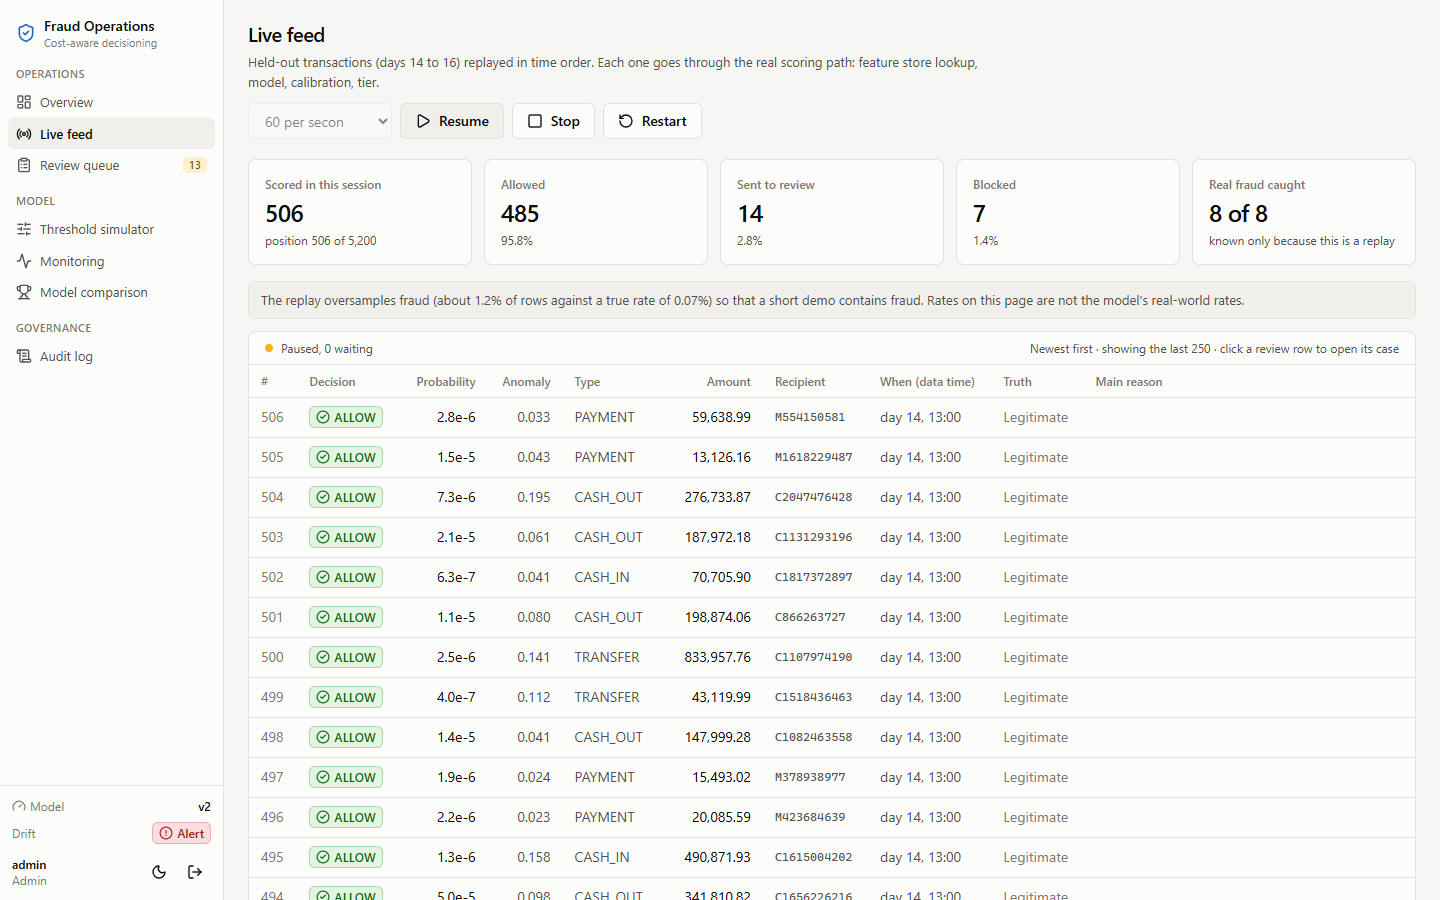
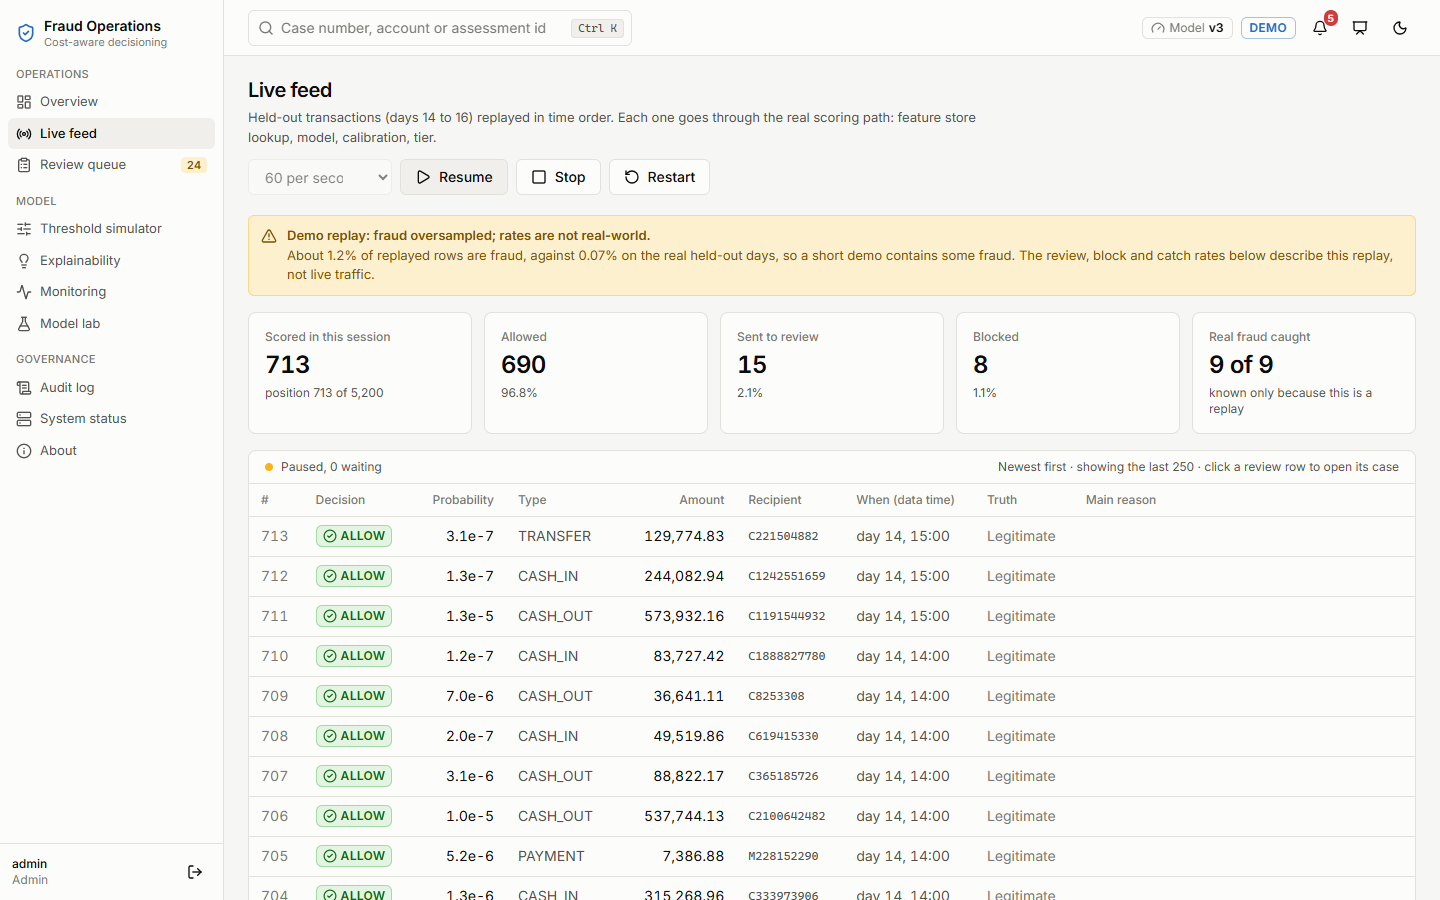
Update demo script, screenshots and overview hint

diff --git a/dashboard/src/pages/Overview.tsx b/dashboard/src/pages/Overview.tsx
@@ -38,7 +38,7 @@ function CostAvoided() {
     <Kpi label={label} value={<span className="text-lg">{best ? fmt.int(best.days_14_16.total_cost - v3) : '–'}</span>}
       hint={<>
         <span className="block">vs review everything: <span className="tabular font-medium text-text">{fmt.int(everything - v3)}</span></span>
-        <span className="block">Days {held.days[0]}–{held.days[held.days.length - 1]}, V3 cost {fmt.int(v3)}{best && <>; best rule ({best.label.toLowerCase()}) {fmt.int(best.days_14_16.total_cost)}</>}.{' '}
+        <span className="block">Days {held.days[0]}–{held.days[held.days.length - 1]}: V3 {fmt.int(v3)}{best && <>, best rule {fmt.int(best.days_14_16.total_cost)}</>}.{' '}
           <Link to="/models" className="text-accent hover:underline">Model lab</Link></span>
         <span className="mt-1 block text-[11px] text-muted">vs blocking nothing: {fmt.money(held.baselines.block_nothing - v3)}</span>
       </>} />

diff --git a/docs/DEMO_SCRIPT.md b/docs/DEMO_SCRIPT.md
@@ -1,6 +1,6 @@
-# Five-minute demo
+# Six-minute demo
 
-A walkthrough for the presentation. Timings are targets; the whole thing fits in five minutes with a little room.
+A walkthrough for the presentation. Timings are targets; the whole thing fits in six minutes with a little room. If you only have five, leave out the retraining step at 5:00.
 
 ## Before you present
 
@@ -11,8 +11,12 @@ Do this at least ten minutes before your slot, on the machine you will present f
 3. Terminal 2: `cd dashboard` then `npm run dev`
 4. Open http://localhost:5173 and sign in as **admin** / `admin123`.
 5. Go to **Live feed**, set the speed to **20 per second**, press **Restart**, let it run for about 30 seconds, then **Stop**. This fills the review queue and the audit log so no page is empty.
-6. Open the **Threshold simulator** once so its data is cached.
-7. Leave the browser on the **Overview** page, in light mode, zoomed so the back row can read it.
+6. Open the **Threshold simulator**, the **Explainability** page and the **Model lab** once each so their data is cached.
+7. Open a third terminal in the project root, run `python scripts/retrain.py --as-of-day 16 --maturity-days 2` once (about four and a half minutes on the laptop, plugged in), and leave the terminal open. The Model lab then already has a gate decision to show if the live run is slow.
+8. Turn on **presentation mode** (the screen icon in the top bar). It makes everything larger for the back row.
+9. Leave the browser on the **Overview** page, in light mode.
+
+If you present from the online version instead, open it a few minutes early: the free API goes to sleep and takes about a minute to wake up.
 
 To start completely fresh, stop the API, delete `api/fraud.db`, and start it again.
 
@@ -20,102 +24,129 @@ To start completely fresh, stop the API, delete `api/fraud.db`, and start it aga
 
 ### 0:00 Opening (30 seconds), Overview page
 
-> "Most fraud projects stop at a model score. This one asks what a fraud team would ask: can I trust the number, what should the system do with a score, and what happens when things change. This is the operations view: what has been scored, what is waiting for a person, which model is serving, and whether its inputs have drifted."
+> "Most fraud projects stop at a model score. This one asks what a fraud team would ask: can I trust the number, what should the system do with a score, and what happens when things change. This is the operations view: what has been scored, what is waiting for a person, and whether the model's inputs have drifted."
 
-Point at the six tiles. Do not explain each one.
+Point at the **cost avoided vs best rule** tile.
 
-### 0:30 Live feed (45 seconds)
+> "The fair comparison is not 'no fraud check at all'. It is the best set of simple rules I could write from the earlier days. On the held-out days those rules cost 196,675; the model's decisions cost 32,586. Sending everything to a person would have cost over 1.2 million."
+
+### 0:30 Live feed (40 seconds)
 
 Click **Live feed**, speed **5 per second**, press **Continue**.
 
-> "These are real held-out transactions, days the model never saw, replayed in order. Each one goes through the same path a payment would: the service looks up the recipient's history, computes the features itself, scores it with an ensemble of five models, and puts it in one of three tiers. Green goes through, red is stopped, amber goes to a person."
+> "These are real held-out transactions, days the model never trained on, replayed in order. Each one goes through the same path a payment would: the service looks up the recipient's history, computes the inputs itself, scores it with an average of five models, and puts it in one of three tiers. Green goes through, red is stopped, amber goes to a person."
 
 Point at the **Truth** column.
 
-> "Because it is a replay, we can see the truth. I have oversampled fraud here so you see some in a short demo; the real rate is seven in ten thousand."
+> "Because it is a replay, we can see the truth. As the banner says, fraud is oversampled so you see some in a short demo; the real rate is about seven in ten thousand, so the rates on this page are not real-world rates."
 
 Press **Pause**.
 
-### 1:15 A case in the queue (75 seconds)
+### 1:10 A case in the queue (50 seconds)
 
 Click an amber **REVIEW** row. It opens the case.
 
-> "The model was not sure enough to decide on its own, so an analyst gets it. Two scores: the supervised fraud probability, and an anomaly score from an autoencoder that was trained with no labels at all."
+> "The model was not sure enough to decide on its own, so an analyst gets it. Three reasons in plain English, and underneath, the full explanation: each bar is one input pushing this transaction toward fraud or away from it."
 
-Point at **Why it was flagged**.
+Type a note and click **Decline**.
 
-> "Three reasons in plain English, and underneath, the full explanation. Each bar is one input pushing the score toward fraud or away from it. These are SHAP values from this transaction, not a general feature ranking."
+> "The analyst has to say why. That decision is logged, and it becomes a training label once it has had time to settle."
 
-Point at the recipient history and similar cases, then type a note and click **Decline**.
+Decline or approve one or two more cases from the **Review queue** (about 10 seconds), then switch to the third terminal and start the retraining job:
 
-> "The analyst has to say why. That decision is logged, and it becomes a training label for the next retraining, once it has had time to settle."
+```bash
+python scripts/retrain.py --as-of-day 16 --maturity-days 2
+```
 
-### 2:30 Threshold simulator (90 seconds). The centrepiece.
+> "This is the retraining job. It retrains the model on newer days, using only labels that are at least two days old, and then a gate decides whether the new model may replace the one serving. It takes about four minutes, so I'll come back to it at the end."
+
+Do not add `--promote`: without it the job only reports its decision and never changes the serving model.
+
+### 2:00 Explainability: where it goes wrong (40 seconds)
+
+Click **Explainability**, then scenario **5, A legitimate transaction that was blocked**.
+
+> "I picked these five transactions by fixed rules, and two of them are mistakes on purpose. This is a real customer the model blocked. The biggest push came from a mismatch in the sender's balance, which is the signal it relies on most. That honesty matters more than a perfect-looking demo."
+
+### 2:40 Threshold simulator (60 seconds). The centrepiece.
 
 Click **Threshold simulator**.
 
-> "A missed fraud costs its full amount. A wrongful block costs a little. A review costs a little less. So where should the two thresholds go? This recomputes the whole cost on 1.2 million transactions in the browser, instantly."
+> "A missed fraud costs its full amount. A wrongful block costs 5. A review costs 1. So where should the two thresholds go? This recomputes the whole cost on 1.2 million transactions, instantly."
 
-Drag the **Review threshold** slider slowly to the right, past the minimum.
+Drag the **Review threshold** slider slowly to the right.
 
-> "Watch the cost. It falls as we review fewer transactions, and then it hits a cliff: one missed fraud costs more than thousands of reviews. The cheapest point is right at the edge of that cliff."
+> "The cost falls as we review fewer transactions, and then it hits a cliff: one missed fraud costs more than thousands of reviews. So the deployed threshold sits deliberately to the left of the cheapest point. It stays safe even if the probabilities are off by a factor of two."
 
 Press **Reset**.
 
-> "So the deployed threshold is deliberately to the left of the cheapest point. It was chosen to stay safe even if the model's probabilities are off by a factor of two."
+### 3:40 Model lab: how V3 earned its place (60 seconds)
 
-Click **Held-out (days 14–16)**.
+Click **Model lab**. Point at the version history.
 
-> "And this matters: the thresholds were chosen on one period and tested on a later one. In my first version I tuned them on the test set, and the numbers looked better than they were."
+> "Three versions. My first version reported great numbers, but I had tuned it on the test days, so they were not honest. Version 2 fixed the method. For Version 3 I compared linear models, tree models and four kinds of neural network on earlier days only."
 
-Optional, if there is time: drag a cost slider and show the optimum move.
+Scroll to the held-out test.
 
-### 4:00 Honest numbers and monitoring (60 seconds)
+> "Then I wrote down the rule before looking: V3 replaces V2 only if it is significantly better and not more expensive. It ran once. V3 won: PR-AUC up by about 0.01, cost down by 1,158, still no fraud let through."
 
-Click **Model comparison**. Point at the interval chart.
+Scroll to the leaderboard.
 
-> "Four models, each with a confidence interval, each trained five times. The orange marks are what I reported at first. My first version said the Random Forest was best and that it missed no fraud. When I stopped tuning on the test set, LightGBM turned out to be significantly better, and the Random Forest lets two frauds through. The deployed model lets none through and reviews under three percent of traffic."
+> "CatBoost scored a touch higher, but the test says it is not really different, so the simpler model stayed."
 
-Scroll to **Dependence on PaySim's balance bookkeeping**.
+### 4:40 The retraining gate (40 seconds)
 
-> "And a limitation I found myself: remove three features and performance collapses. Much of this signal is a property of the simulator, so these are upper bounds, not a promise about real payments."
+Check the third terminal: the job prints its decision as JSON at the end. Then refresh the **Model lab** and scroll to **Retraining gate: the latest run**.
 
-Click **Monitoring**. Point at the stress-test table.
+> "The job finished. It retrained V3's settings on days 5 to 10 and judged both models on days 11 to 13. The challenger scored 0.8827 against 0.8820 for the model that is serving, but the 95% interval of the difference runs from below zero to above it, so it is not significantly better, and the gate keeps V3."
 
-> "Last, what happens when the data moves. If the features the model depends on shift, it lets a fifth of fraud through. The monitoring catches that: the drift alert fires and the review rate drops out of its expected band."
+Point at the labels line.
 
-### 5:00 Close
+> "The decisions I made a minute ago are in the database, but those transactions are from days 14 to 16, so they are not two days old yet as of day 16. The job counts them and does not use them. That is the label delay rule at work."
 
-> "So: honest evaluation, one scoring path shared by training and serving, cost-based decisions a person can inspect and override, and monitoring for when it stops being true."
+If the job has not finished yet, the card still shows the warm-up run from before the talk, with the same result.
+
+### 5:20 Close (20 seconds)
+
+> "One limitation to be clear about: this is simulated data, and the model leans on a pattern the simulator creates. What transfers is the method: honest evaluation, one scoring path for training and serving, cost-based decisions a person can inspect, and monitoring for when it stops being true."
 
 ## Numbers to have ready
 
+All from `results/metrics.json`.
+
 | Question | Answer |
 |---|---|
-| Deployed model | Ensemble of 5 LightGBM models, Platt-calibrated, 16 leak-free features |
-| Held-out PR-AUC | 0.8632, 95% CI 0.8384 to 0.8835 |
+| Deployed model | V3: average of 5 tuned LightGBM models, Platt-calibrated, 16 inputs |
+| Held-out PR-AUC | 0.8730, 95% CI 0.8474 to 0.8927 |
+| V3 minus V2 on held-out | PR-AUC +0.0098 (CI +0.0057 to +0.0149); cost −1,158 (CI −1,286.1 to −1,026.9) |
 | Frauds let through | 0 of 822 |
-| Legitimate traffic reviewed | 2.79% |
+| Legitimate traffic reviewed | 2.69% |
 | Wrongful blocks | 3 of 1,201,820 |
-| Block precision / recall | 99.5% / 77.0% |
-| Total cost | 33,744 |
-| LightGBM against Random Forest | +0.0367 PR-AUC, CI +0.0258 to +0.0466 |
-| Without balance features | PR-AUC 0.5028 |
-| Autoencoder alone | PR-AUC 0.2091 for the fixed seed; 0.1273 ± 0.0730 over 5 seeds |
-| Scoring latency | 81.7 ms median, 174.9 ms at the 95th percentile |
-| Tests | 64, including a train/serve parity test on 1,000 held-out rows |
+| Block precision / recall | 99.5% / 77.4% |
+| Total cost | 32,586 (blocking nothing: 1,362,518,395.67) |
+| Thresholds | review from 0.000316, block from 0.71 |
+| Safety margin | the probabilities can be off by ×2.17 before the next fraud slips through |
+| Without balance features (V2 study) | PR-AUC 0.5028 |
+| Autoencoder as a fraud detector | PR-AUC 0.0541 on days 11–13; now used only for monitoring |
+| Stress test | adding 500 or more to the balance inputs lets 113 of 822 frauds through; monitoring alerts |
+| Best hand-written rule on held-out | rule engine, cost 196,675, 1 fraud let through, 16.35% of traffic reviewed |
+| Retraining gate (as of day 16) | challenger 0.8827 vs V3 0.8820 PR-AUC on days 11–13, difference +0.0006 (CI −0.0023 to +0.0039): keep V3 |
+| Speed | 15.0 to 24.5 ms per request at the median (V3, laptop, SQLite or PostgreSQL) |
+| Tests | 98, including a train/serve parity test |
 
 ## Questions you should expect
 
-**"Why is the review threshold so small?"** It is a calibrated probability, and fraud is 0.07% of traffic. A missed fraud costs hundreds of thousands; a review costs 1. So it is worth reviewing anything with even a small chance of fraud.
+**"Why is the review threshold so small?"** It is a calibrated probability, and fraud is about 0.07% of traffic. A missed fraud costs hundreds of thousands; a review costs 1. So it is worth reviewing anything with even a small chance of fraud.
 
-**"Is the deep learning doing anything?"** Honestly, less than hoped. The MLP is a strong second-place model. The autoencoder finds most fraud with no labels, but it is unstable from seed to seed, and adding its score to LightGBM did not improve it. It is in the system as a label-free second opinion and as a fallback when the supervised model's labels are stale.
+**"Why not CatBoost, if it scored higher?"** Its PR-AUC was 0.8822 against 0.8820, and the paired test said the difference is not real. With no real difference, I kept the model family that was already deployed and simpler to run.
 
-**"What does delay-aware mean here?"** The retraining job only uses labels that have matured, a new model only replaces the old one if it is significantly better on recent labelled data, and there is a fallback rule for a stale model. On this dataset, delays of up to three days made almost no difference, so I am not claiming a benefit, only that the mechanism is built and tested.
+**"Is the deep learning doing anything?"** Not much on this data. The best neural network (an MLP) was significantly worse than the tree models, and the other neural networks were worse still. The autoencoder is now a monitor: it tracks how many transactions look unusual, and that share stayed in its expected band.
 
-**"Would this work on real data?"** Not with these numbers. PaySim is synthetic, and the ablation shows the model depends on a regularity the simulator produces. The method (the evaluation protocol, the cost-based thresholds, the monitoring) is what transfers.
+**"Did you look at the test set?"** The held-out days were looked at in earlier versions, so they are not brand new. For V3, every choice was made on days 5–13, the decision rule was written into the script first, and the script that scores the held-out days refuses to run twice.
 
-**"What was wrong with the first version?"** Class weights and thresholds were chosen on the test set, three features leaked future information, and the API did not compute features the same way the training code did. All three are fixed, and a test now guards the last one.
+**"What does delay-aware mean here?"** The retraining job only uses labels that have matured, and a new model only replaces the old one if it is significantly better on recent labelled data. On this dataset, delays of up to three days made almost no difference, so I am not claiming a benefit, only that the mechanism is built and tested.
+
+**"Would this work on real data?"** Not with these numbers. PaySim is synthetic, and the model depends on a regularity the simulator produces. The method is what transfers.
 
 ## If the live demo fails
 
@@ -123,7 +154,7 @@ Work down this list. Do not debug in front of the audience.
 
 1. **The dashboard shows "Could not reach the API".** The API terminal has stopped. Restart it with `uvicorn fraud.service.app:app --port 8000` and refresh. It takes about ten seconds.
 2. **The live feed will not connect, but other pages work.** Skip the feed. The review queue already holds cases from your warm-up run; go straight to a case.
-3. **The dashboard will not load at all.** Run `streamlit run app.py` and use the single scoring form: pick a preset fraud, show the tier and the reasons. Then switch to the screenshots.
-4. **Nothing runs.** Present from `docs/screenshots/`, in this order: `02-overview`, `03-live-feed`, `05-case-detail`, `06-threshold-simulator`, `08-model-comparison`, `07-monitoring`. The same script works over the screenshots; for the simulator, describe the slider movement and point at the cliff in the chart.
+3. **The dashboard will not load at all.** Run `streamlit run app.py` and use the scenario buttons: the same five transactions as the Explainability page. Then switch to the screenshots.
+4. **Nothing runs.** Present from `docs/screenshots/`, in this order: `02-overview`, `03-live-feed`, `05-case-detail`, `13-explainability`, `06-threshold-simulator`, `08-model-lab`. The same script works over the screenshots.
 
 Keep `docs/screenshots/` open in a second window before you start, so the fallback is one Alt-Tab away.
